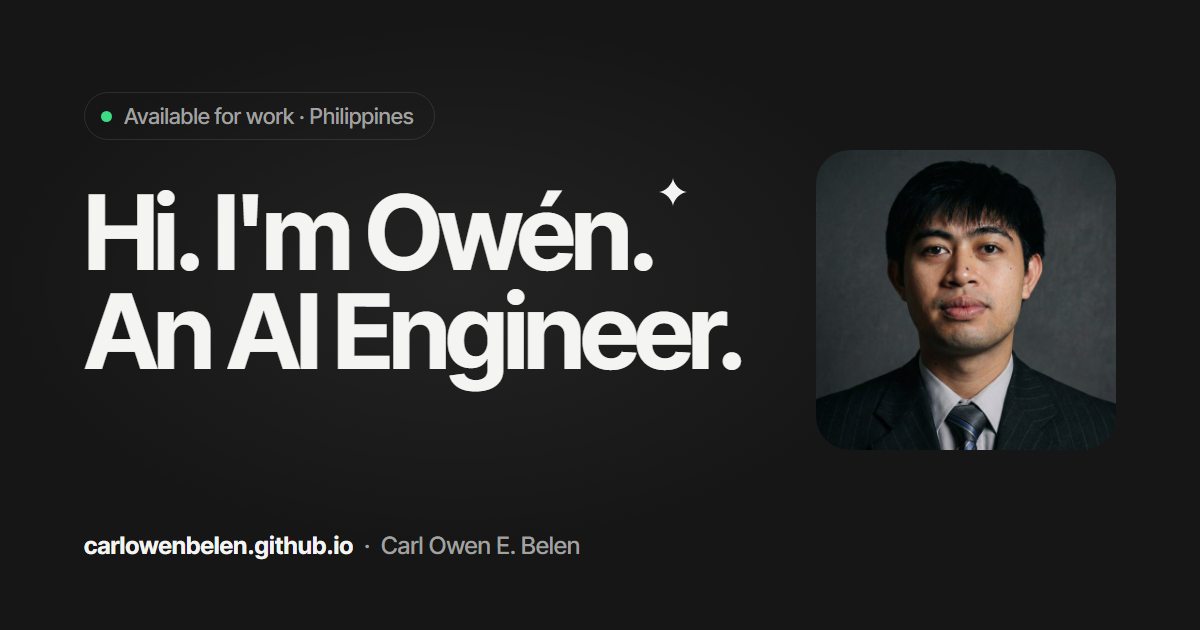
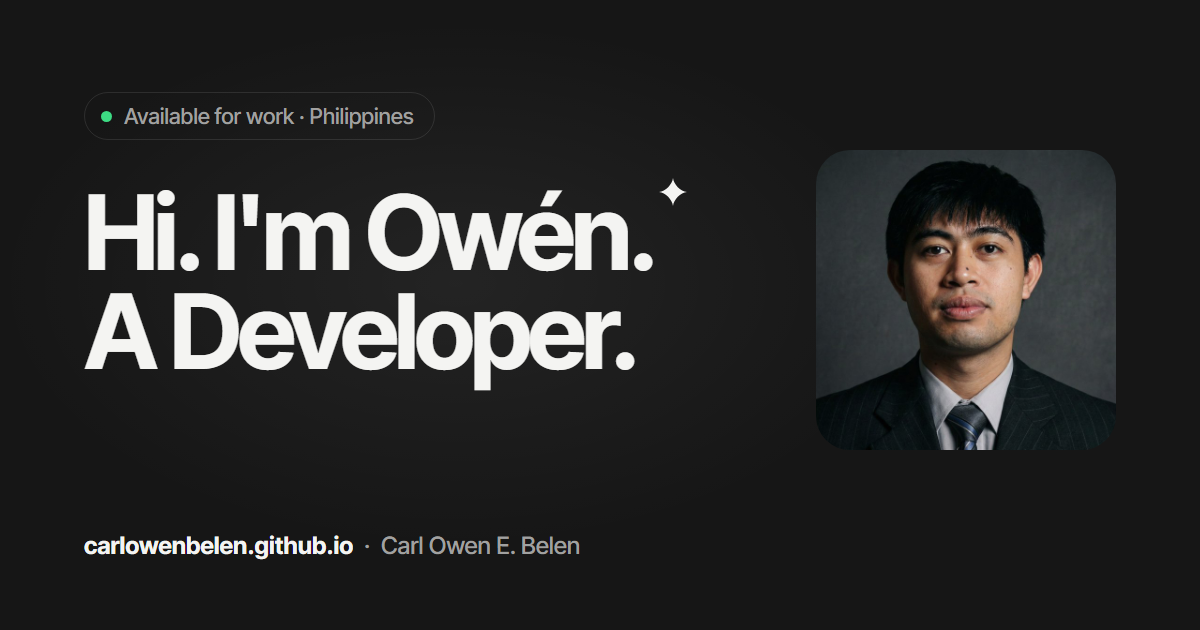
Hero: fixed "A" with rotating role; tidy header and footer
- "Hi. I'm Owén. A Developer." with the word after "A" rotating
  (Developer, Video Editor, Trader, Gamer, Designer); "A" never moves
- Star no longer shifts the first line off-centre
- "Available for work" moved to the header; location moved to Contact
- Footer: "Back to top" instead of build credits

Changed region(s): [[0.1233, 0.4524, 0.6167, 0.6333]]

diff --git a/style.css b/style.css
@@ -46,8 +46,8 @@ h1, h2, h3, h4 { font-family: var(--display); font-weight: 700; letter-spacing: 
 .pills a { font-size: 14.5px; font-weight: 500; color: var(--muted); padding: 7px 16px; border-radius: 999px; transition: color .2s, background .2s; }
 .pills a:hover { color: var(--text); }
 .pills a.on { background: var(--text); color: var(--bg); }
-.nav-mail { justify-self: end; font-size: 14.5px; font-weight: 500; color: var(--muted); transition: color .2s; }
-.nav-mail:hover { color: var(--text); }
+.status { justify-self: end; display: inline-flex; align-items: center; gap: 9px; font-size: 14px; font-weight: 500; color: var(--muted); padding: 7px 14px 7px 12px; border-radius: 999px; border: 1px solid var(--line); transition: color .2s, border-color .2s; }
+.status:hover { color: var(--text); border-color: var(--line2); }
 
 /* ---------- buttons ---------- */
 .pill { display: inline-flex; align-items: center; gap: 8px; font-size: 16px; font-weight: 500; padding: 14px 26px; border-radius: 999px; border: 1px solid transparent; cursor: pointer; transition: transform .2s, background .2s, border-color .2s, color .2s; }
@@ -61,11 +61,18 @@ h1, h2, h3, h4 { font-family: var(--display); font-weight: 700; letter-spacing: 
 /* ---------- hero ---------- */
 .hero { min-height: 92vh; display: flex; flex-direction: column; align-items: center; justify-content: center; text-align: center; padding: 130px 24px 70px; position: relative; }
 .hero::before { content: ""; position: absolute; inset: 0; background: radial-gradient(60% 50% at 50% 42%, rgba(255, 255, 255, .055), transparent 70%); pointer-events: none; }
-.avail { display: inline-flex; align-items: center; gap: 10px; font-size: 14.5px; color: var(--muted); padding: 8px 16px 8px 14px; border-radius: 999px; border: 1px solid var(--line); background: rgba(255, 255, 255, .03); }
 .dot { width: 8px; height: 8px; border-radius: 50%; background: var(--green); box-shadow: 0 0 0 0 rgba(61, 220, 132, .6); animation: pulse 2.4s infinite; }
 @keyframes pulse { 0% { box-shadow: 0 0 0 0 rgba(61, 220, 132, .5); } 70% { box-shadow: 0 0 0 9px rgba(61, 220, 132, 0); } 100% { box-shadow: 0 0 0 0 rgba(61, 220, 132, 0); } }
-.hero h1 { position: relative; font-size: clamp(52px, 10.2vw, 148px); line-height: .96; letter-spacing: -.045em; margin-top: 34px; font-family: var(--display-lg); }
-.star { width: .26em; height: .26em; fill: var(--text); vertical-align: .95em; margin-left: .04em; animation: twinkle 5s ease-in-out infinite; }
+.hero h1 { display: flex; flex-direction: column; align-items: center; font-size: clamp(52px, 10.2vw, 148px); line-height: .98; letter-spacing: -.045em; font-family: var(--display-lg); }
+.l1 .name { position: relative; display: inline-block; }
+.star { position: absolute; right: -.36em; top: -.14em; width: .26em; height: .26em; fill: var(--text); animation: twinkle 5s ease-in-out infinite; }
+/* "A" never moves: every word sits in the same grid cell, so the cell is always as wide as the longest word */
+.l2 { display: flex; align-items: baseline; gap: .26em; }
+.rot { display: inline-grid; text-align: left; }
+.rot .w { grid-area: 1 / 1; white-space: nowrap; opacity: 0; transform: translateY(.32em); filter: blur(10px); transition: opacity .6s ease, transform .7s cubic-bezier(.2, .7, .2, 1), filter .6s ease; }
+.rot .w.on { opacity: 1; transform: none; filter: blur(0); }
+.rot .w.out { opacity: 0; transform: translateY(-.32em); filter: blur(10px); }
+.no-js .rot .w:first-child { opacity: 1; transform: none; filter: none; }
 @keyframes twinkle { 0%, 100% { transform: scale(1) rotate(0); opacity: 1; } 50% { transform: scale(.82) rotate(45deg); opacity: .75; } }
 .intro { max-width: 36em; margin-top: 32px; font-size: clamp(17px, 1.6vw, 20px); line-height: 1.55; color: var(--muted); }
 
@@ -168,6 +175,9 @@ h1, h2, h3, h4 { font-family: var(--display); font-weight: 700; letter-spacing: 
 .contact .actions { margin-top: 30px; }
 
 .foot { display: flex; justify-content: space-between; flex-wrap: wrap; gap: 12px; padding: 30px 0 40px; border-top: 1px solid var(--line); color: var(--dim); font-size: 14.5px; }
+.foot a { transition: color .2s; }
+.foot a:hover { color: var(--text); }
+.where { margin-top: 30px; font-size: 14.5px; color: var(--dim); }
 
 /* reveal on scroll */
 .reveal { opacity: 0; transform: translateY(22px); transition: opacity .9s cubic-bezier(.2, .7, .2, 1), transform .9s cubic-bezier(.2, .7, .2, 1); }
@@ -198,9 +208,9 @@ h1, h2, h3, h4 { font-family: var(--display); font-weight: 700; letter-spacing: 
   .nav { grid-template-columns: auto 1fr; padding: 14px 16px; }
   .pills { justify-self: end; }
   .pills a { padding: 7px 12px; font-size: 14px; }
-  .nav-mail { display: none; }
+  .status { display: none; }
   .hero { min-height: 0; padding: 120px 16px 64px; }
-  .avail { font-size: 13px; }
+  .hero h1 { font-size: clamp(38px, 11.4vw, 60px); }
   .stats { grid-template-columns: 1fr 1fr; }
   .stats div { border-left: 0; padding: 0; }
   .stats div:nth-child(5) { grid-column: 1 / -1; }
@@ -222,4 +232,5 @@ h1, h2, h3, h4 { font-family: var(--display); font-weight: 700; letter-spacing: 
   html { scroll-behavior: auto; }
   .reveal { opacity: 1; transform: none; transition: none; }
   .dot, .caret, .star, .track { animation: none; }
+  .rot .w { transition: none; filter: none; }
 }

diff --git a/index.html b/index.html
@@ -11,7 +11,7 @@
 <link rel="apple-touch-icon" href="assets/apple-touch-icon.png">
 
 <meta property="og:type" content="website">
-<meta property="og:title" content="Hi. I'm Owén. An AI Engineer.">
+<meta property="og:title" content="Hi. I'm Owén. A Developer.">
 <meta property="og:description" content="I build AI tools, agents and automations that turn slow, manual work into fast, reliable workflows.">
 <meta property="og:url" content="https://carlowenbelen.github.io/">
 <meta property="og:image" content="https://carlowenbelen.github.io/assets/og.png">
@@ -49,16 +49,18 @@
     <a href="#about">About</a>
     <a href="#contact">Contact</a>
   </nav>
-  <a class="nav-mail" href="mailto:carlowen.belen@gmail.com">Email me</a>
+  <a class="status" href="#contact"><span class="dot" aria-hidden="true"></span>Available for work</a>
 </header>
 
 <main id="top">
 
 <!-- HERO -->
 <section class="hero" id="hero">
-  <p class="avail reveal"><span class="dot" aria-hidden="true"></span>Available for work · Pangasinan, Philippines</p>
-  <h1 class="reveal">Hi. I'm Owén.<svg class="star" viewBox="0 0 24 24" aria-hidden="true"><path d="M12 0c.6 5.6 6.4 11.4 12 12-5.6.6-11.4 6.4-12 12-.6-5.6-6.4-11.4-12-12C5.6 11.4 11.4 5.6 12 0z"/></svg><br>An AI Engineer.</h1>
-  <p class="intro reveal">I build AI tools, agents and automations that turn slow, manual work into fast, reliable workflows. Claude plans the work, and my own machine does the heavy lifting.</p>
+  <h1 class="reveal" aria-label="Hi. I'm Owén. A developer, video editor, trader, gamer and designer.">
+    <span class="l1" aria-hidden="true"><span class="name">Hi. I'm Owén.<svg class="star" viewBox="0 0 24 24"><path d="M12 0c.6 5.6 6.4 11.4 12 12-5.6.6-11.4 6.4-12 12-.6-5.6-6.4-11.4-12-12C5.6 11.4 11.4 5.6 12 0z"/></svg></span></span>
+    <span class="l2" aria-hidden="true"><span class="a">A</span><span class="rot"><span class="w on">Developer.</span><span class="w">Video Editor.</span><span class="w">Trader.</span><span class="w">Gamer.</span><span class="w">Designer.</span></span></span>
+  </h1>
+  <p class="intro reveal">AI Engineer from the Philippines. I build AI tools, agents and automations that turn slow, manual work into fast, reliable workflows.</p>
   <div class="actions reveal">
     <a class="pill solid" href="#work">See my work</a>
     <a class="pill line" href="#contact">Get in touch</a>
@@ -257,6 +259,7 @@
       <button class="pill solid" id="copy" type="button">Copy email</button>
       <a class="pill line" href="https://github.com/carlowenbelen" target="_blank" rel="noopener">GitHub <span aria-hidden="true">↗</span></a>
     </div>
+    <p class="where">Based in Pangasinan, Philippines · UTC+8 · Remote or on-site</p>
   </div>
 </section>
 
@@ -264,7 +267,7 @@
 
 <footer class="wrap foot">
   <span>© <span id="yr">2026</span> Carl Owen E. Belen</span>
-  <span>Built with Claude Code · Hosted on GitHub Pages</span>
+  <a href="#top">Back to top <span aria-hidden="true">↑</span></a>
 </footer>
 
 <script src="script.js" defer></script>

diff --git a/script.js b/script.js
@@ -46,6 +46,21 @@
     items.forEach((el) => io.observe(el));
   }
 
+  // Headline: "A" stays put, the word after it rotates
+  const words = [...document.querySelectorAll(".rot .w")];
+  if (words.length > 1 && !reduce) {
+    let i = 0;
+    setInterval(() => {
+      const cur = words[i];
+      i = (i + 1) % words.length;
+      const next = words[i];
+      cur.classList.replace("on", "out");
+      next.classList.remove("out");
+      next.classList.add("on");
+      setTimeout(() => cur.classList.remove("out"), 800);
+    }, 2600);
+  }
+
   // Terminal: types a real run of my video pipeline
   const lines = [
     ["p", "$ ", "k", "ve make interview.mp4 --vertical"],

diff --git a/design/og.html b/design/og.html
@@ -25,7 +25,7 @@
   <div class="glow"></div>
   <div class="t">
     <div class="avail"><i></i>Available for work · Philippines</div>
-    <h1>Hi. I'm Owén.<svg viewBox="0 0 24 24"><path d="M12 0c.6 5.6 6.4 11.4 12 12-5.6.6-11.4 6.4-12 12-.6-5.6-6.4-11.4-12-12C5.6 11.4 11.4 5.6 12 0z"/></svg><br>An AI Engineer.</h1>
+    <h1>Hi. I'm Owén.<svg viewBox="0 0 24 24"><path d="M12 0c.6 5.6 6.4 11.4 12 12-5.6.6-11.4 6.4-12 12-.6-5.6-6.4-11.4-12-12C5.6 11.4 11.4 5.6 12 0z"/></svg><br>A Developer.</h1>
   </div>
   <div class="photo"><img src="../assets/photo.jpg" alt=""></div>
   <div class="url"><b>carlowenbelen.github.io</b> &nbsp;·&nbsp; Carl Owen E. Belen</div>
